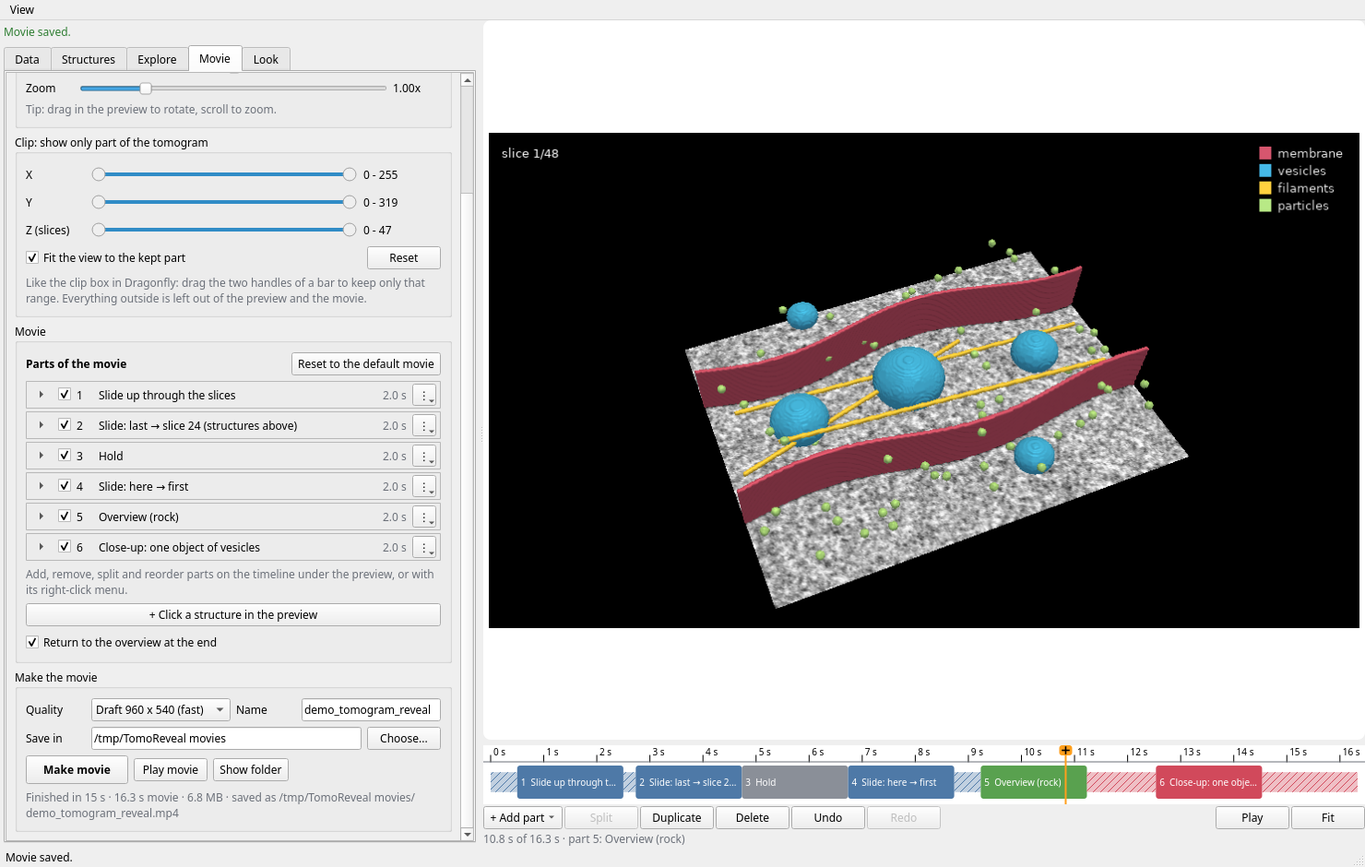
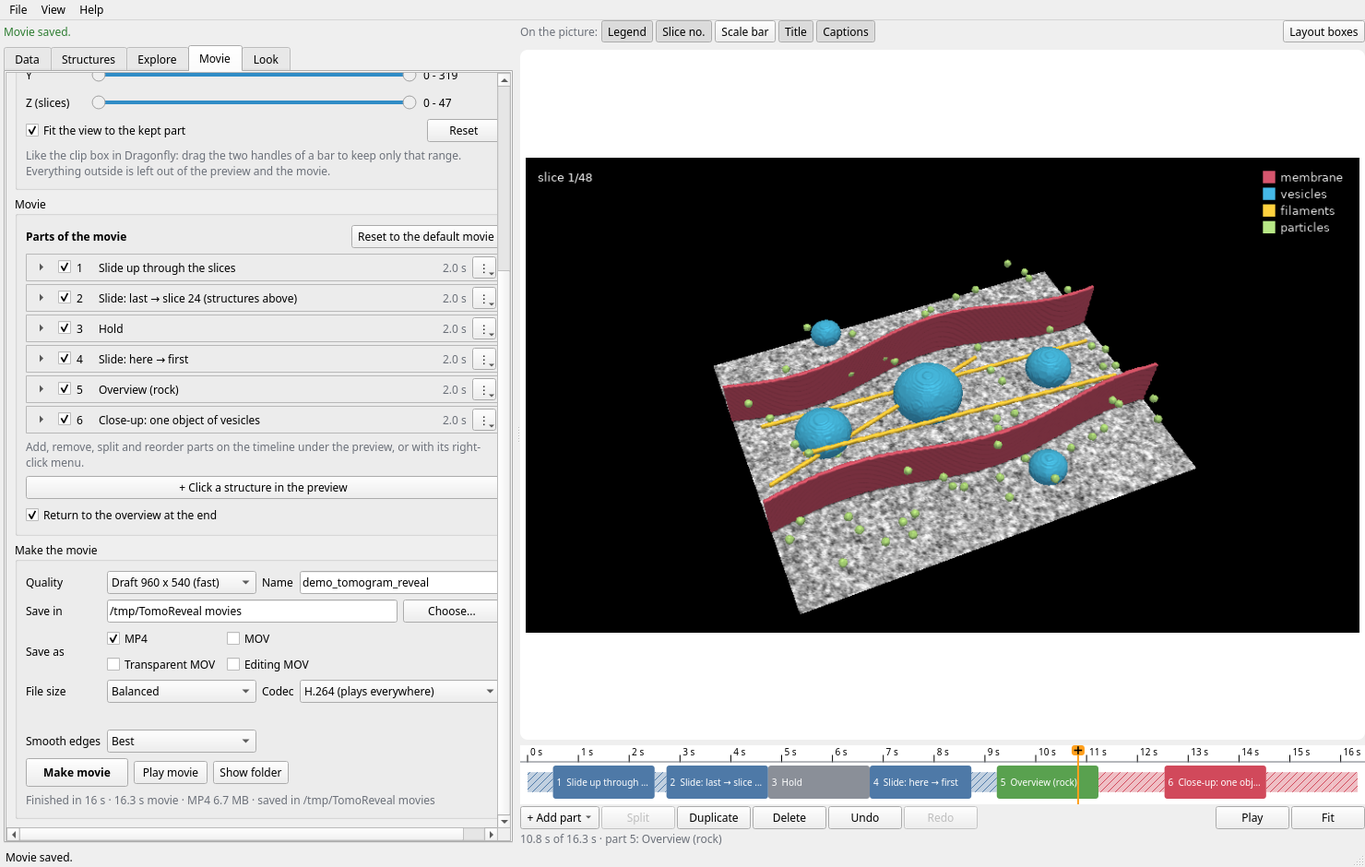
3.4 phase 11: version 3.4.0, change log, README and screenshots
- Version 3.4.0; CHANGELOG with one bullet per request R1-R17.
- README: per-structure settings, close-ups of several objects, close-up animations, camera paths,
  'On the picture' (legend, scale bar), title and end cards, lighting and shadows, Make the movie with
  formats, file size, H.265 and transparency notes and the size estimates, 'Save your work' (projects,
  autosave, crashes, continuing a movie), new command-line options, new modules.
- Screenshots regenerated from the demo data only, plus 11-16 (overlays, title card, cartoon with slice
  shadows, cross-section, camera path, size table).
- The left panel fits again: drop-down lists may shrink, format tick boxes in two rows, shorter labels,
  left side 40 px wider by default; horizontal scroll bar as a safety net.

diff --git a/tomoreveal/gui.py b/tomoreveal/gui.py
@@ -323,7 +323,7 @@ def build_gui(args):
 
         def _tab(self, name):
             """A scrollable page of the tab widget; returns its layout."""
-            scroll = QtW.QScrollArea(); scroll.setWidgetResizable(True); scroll.setHorizontalScrollBarPolicy(QtC.Qt.ScrollBarAlwaysOff)
+            scroll = QtW.QScrollArea(); scroll.setWidgetResizable(True); scroll.setHorizontalScrollBarPolicy(QtC.Qt.ScrollBarAsNeeded)
             page = QtW.QWidget(); lay = QtW.QVBoxLayout(page); scroll.setWidget(page)
             lay.setSizeConstraint(QtW.QLayout.SetMinimumSize)  # grow and scroll rather than squash rows together
             self.tabs.addTab(scroll, name); self.pages.append(page)
@@ -467,6 +467,7 @@ def build_gui(args):
             for t, wh in QUALITY:
                 self.quality_cb.addItem(t, wh)
             self.quality_cb.setCurrentIndex(1); self.quality_cb.currentIndexChanged.connect(lambda _: self.schedule())
+            self.quality_cb.setSizeAdjustPolicy(QtW.QComboBox.AdjustToMinimumContentsLengthWithIcon); self.quality_cb.setMinimumContentsLength(16)
             self.folder_le = QtW.QLineEdit(self.st.outdir); self.folder_le.setMinimumWidth(120); fb = QtW.QPushButton("Choose..."); fb.clicked.connect(self.choose_folder)
             self.name_le = QtW.QLineEdit("tomogram_reveal")
             grid.addWidget(QtW.QLabel("Quality"), 0, 0); grid.addWidget(self.quality_cb, 0, 1); grid.addWidget(QtW.QLabel("Name"), 0, 2); grid.addWidget(self.name_le, 0, 3, 1, 2)
@@ -489,7 +490,7 @@ def build_gui(args):
             self.progress = QtW.QProgressBar(); grid.addWidget(self.progress, 8, 0, 1, 5)
             self.status_lbl = QtW.QLabel(""); self.status_lbl.setStyleSheet(DIM); self.status_lbl.setWordWrap(True); grid.addWidget(self.status_lbl, 9, 0, 1, 5)
             mk.addWidget(g); mk.addStretch(1)
-            split.addWidget(left); split.addWidget(self.right); split.setStretchFactor(1, 1); split.setSizes([520, 960])
+            split.addWidget(left); split.addWidget(self.right); split.setStretchFactor(1, 1); split.setSizes([560, 920])
             self.cancel_btn.hide(); self.progress.hide(); self.open_btn.setEnabled(False)
 
         # ---------- messages and state ----------
@@ -561,6 +562,10 @@ def build_gui(args):
             """Tooltips for every control (texts in help_texts.py); called after lists are rebuilt."""
             from .help_texts import apply
             apply(self)
+            for page in self.pages:  # drop-down lists may shrink (long entries end in "..."), so rows fit the left side
+                for cb in page.findChildren(QtW.QComboBox):
+                    if cb.sizeAdjustPolicy() != QtW.QComboBox.AdjustToMinimumContentsLengthWithIcon:
+                        cb.setSizeAdjustPolicy(QtW.QComboBox.AdjustToMinimumContentsLengthWithIcon); cb.setMinimumContentsLength(6)
 
         def _help_menu(self):
             h = self.project.help_menu; h.addSeparator()
@@ -579,7 +584,7 @@ def build_gui(args):
             while p is not None and not isinstance(p, QtW.QScrollArea):
                 p = p.parentWidget()
             if p is not None:
-                p.ensureWidgetVisible(w, 0, 20)
+                p.ensureWidgetVisible(w, 0, 20); p.horizontalScrollBar().setValue(0)
 
         def _tab_changed(self, i):
             """The Explore tab shows its own slice view on the right; every other tab shows the movie preview."""

diff --git a/tomoreveal/gui_paths.py b/tomoreveal/gui_paths.py
@@ -11,7 +11,7 @@ SPEEDS = (("even", "even"), ("slow at the ends", "ease"))
 
 
 def _combo(items, cur, fn):
-    cb = QtW.QComboBox()
+    cb = QtW.QComboBox(); cb.setSizeAdjustPolicy(QtW.QComboBox.AdjustToMinimumContentsLengthWithIcon); cb.setMinimumContentsLength(8)
     for t, d in items:
         cb.addItem(t, d)
     cb.setCurrentIndex(max(0, cb.findData(cur)))
@@ -89,9 +89,11 @@ def path_rows(panel, pid, p, form):
         wps = p.get("waypoints") or []
         for i, w in enumerate(wps):
             what = "view" if w.get("pos") is not None else "point"
-            lab = QtW.QLabel(f"{i + 1}: {'camera position' if what == 'view' else 'looks at a clicked point'}")
+            lab = QtW.QLabel(f"{i + 1}: {'a view' if what == 'view' else 'a point'}")
+            lab.setToolTip("A camera position stored with 'Add point at the current view'" if what == "view" else
+                           "A point you clicked; the camera passes near it, looking at it")
             pause = _spin(0, 30, float(w.get("pause", 0) or 0), lambda v, i=i: (part()["waypoints"][i].update(pause=float(v)), panel.set(pid, "waypoints", part()["waypoints"])),
-                          step=0.5, suffix=" s", decimals=1, prefix="pause ")
+                          step=0.5, suffix=" s", decimals=1, prefix="stop ")
             pause.setToolTip("The camera stops here for this long")
 
             def move(d, i=i):
@@ -119,7 +121,7 @@ def path_rows(panel, pid, p, form):
         click = QtW.QPushButton("Add point by clicking in the preview"); click.setCheckable(True); click.setChecked(win.waypoint_pick == pid)
         click.setToolTip("Click a structure or the slice; the camera will pass near it, looking at it. Esc ends.")
         click.toggled.connect(lambda on: win.start_waypoint_pick(pid) if on else win.end_waypoint_pick())
-        form.addRow("" if wps else "Points", _row(here, click))
+        form.addRow("" if wps else "Points", _row(here)); form.addRow("", _row(click))
         tip = QtW.QLabel("In the preview, drag a numbered point to move it on the slice; right-click it to delete it.")
         tip.setStyleSheet(DIM); tip.setWordWrap(True); form.addRow("", tip)
     cam = dict(sb.PATH_CAMERA, **(p.get("camera") or {}))
@@ -137,5 +139,5 @@ def path_rows(panel, pid, p, form):
     op = QtW.QSpinBox(); op.setRange(0, 100); op.setSuffix(" %"); op.setPrefix("opacity "); op.setValue(round(100 * oo))
     op.valueChanged.connect(lambda v: panel.set(pid, "others", dict(colour=sb.others_of(part().get("others"))[0], opacity=v / 100)))
     form.addRow("Other structures", _row(col, op))
-    show = QtW.QCheckBox("show the path in the preview (never in the movie)"); show.setChecked(bool(p.get("show_path_in_preview", True)))
+    show = QtW.QCheckBox("show the path in the preview"); show.setChecked(bool(p.get("show_path_in_preview", True)))
     show.toggled.connect(lambda v: panel.set(pid, "show_path_in_preview", bool(v))); form.addRow("", show)

diff --git a/tomoreveal/gui_movie.py b/tomoreveal/gui_movie.py
@@ -314,7 +314,7 @@ class ClickableHeader(QtW.QWidget):
 
 def _combo(items, current, on_change):
     """A drop-down list of (text, value); on_change(value) when the user picks one."""
-    cb = QtW.QComboBox()
+    cb = QtW.QComboBox(); cb.setSizeAdjustPolicy(QtW.QComboBox.AdjustToMinimumContentsLengthWithIcon); cb.setMinimumContentsLength(8)
     for t, d in items:
         cb.addItem(t, d)
     i = cb.findData(current)
@@ -416,7 +416,7 @@ class PartsPanel(QtW.QWidget):
             arrow.clicked.connect(lambda _=False, pid=pid: self.toggle(pid)); head.clicked.connect(lambda pid=pid: self.toggle(pid))
             tick.toggled.connect(lambda on, pid=pid: self.set_on(pid, on))
             note = QtW.QLabel(""); note.setStyleSheet(DIM); note.setWordWrap(True); note.setContentsMargins(46, 0, 0, 0)
-            details = QtW.QWidget(); details.setVisible(False); dl = QtW.QFormLayout(details); dl.setContentsMargins(46, 2, 0, 4)
+            details = QtW.QWidget(); details.setVisible(False); dl = QtW.QFormLayout(details); dl.setContentsMargins(24, 2, 0, 4)
             v.addWidget(head); v.addWidget(note); v.addWidget(details)
             self.lay.addWidget(box)
             self.rows[pid] = dict(box=box, head=head, arrow=arrow, on=tick, num=num, name=name, dur=dur, note=note,
@@ -471,7 +471,7 @@ class PartsPanel(QtW.QWidget):
         while w is not None and not isinstance(w, QtW.QScrollArea):
             w = w.parentWidget()
         if r and w is not None:
-            w.ensureWidgetVisible(r["box"], 0, 20)
+            w.ensureWidgetVisible(r["box"], 0, 20); w.horizontalScrollBar().setValue(0)
 
     # ---- settings ----
     def set_on(self, pid, on):
@@ -713,7 +713,7 @@ class PartsPanel(QtW.QWidget):
         if v is not None and v.get("on", True):
             st = QtW.QSpinBox(); st.setRange(0, 100); st.setSuffix(" %"); st.setPrefix("strength "); st.setValue(round(100 * float(v.get("strength", 0.6))))
             st.valueChanged.connect(lambda x: self.set(pid, "vignette", dict(self.part(pid)["vignette"], strength=x / 100)))
-            bl = QtW.QCheckBox("blur the background"); bl.setChecked(bool((v.get("blur") or {}).get("on")))
+            bl = QtW.QCheckBox("blur"); bl.setChecked(bool((v.get("blur") or {}).get("on")))
             bl.setToolTip("Things nearer or further away than the objects in focus are blurred (depth of field)")
             bl.toggled.connect(lambda on: self.set(pid, "vignette", dict(self.part(pid)["vignette"],
                                                                          blur=dict((self.part(pid)["vignette"].get("blur") or {}), on=bool(on), strength=0.5))))

diff --git a/tomoreveal/help_texts.py b/tomoreveal/help_texts.py
@@ -86,10 +86,10 @@ TEXTS = {
     "text:Add point by clicking in the preview": "Click a structure or the slice; the camera will pass near it, looking at it.",
     "label:Camera": "Distance from the path, the side the camera looks from, and its height.",
     "label:Looks": "Look at the path or a little ahead, and the speed along it.",
-    "text:show the path in the preview (never in the movie)": "Draw the camera's path in the preview while this part is selected.",
+    "text:show the path in the preview": "Draw the camera's path in the preview while this part is selected. It is never in the movie.",
     "text:push in": "The camera moves slowly closer during the close-up.",
     "text:move the tomogram slice with the cut": "The slice follows the cut, so you see the density inside the object.",
-    "text:blur the background": "Blur what is nearer or further away than the objects in focus.",
+    "text:blur": "Blur what is nearer or further away than the objects in focus.",
     "text:+ Click objects in the preview": "Click objects to add them; click again to take one out; Shift-click adds the whole structure. Esc ends.",
     # Look tab
     "text:Show the tomogram slice": "Show the grey tomogram slice in the preview and the movie.",

diff --git a/tomoreveal/gui_export.py b/tomoreveal/gui_export.py
@@ -28,11 +28,11 @@ PRORES_NOTE = "The two ProRes .mov files ignore the file size and codec choices.
 class ExportControls(QtC.QObject):
     def __init__(self, win, grid, row):
         super().__init__(win); self.win = win
-        box = QtW.QWidget(); h = QtW.QHBoxLayout(box); h.setContentsMargins(0, 0, 0, 0); self.fmt = {}
-        for f in encode.FORMATS:
+        box = QtW.QWidget(); h = QtW.QGridLayout(box); h.setContentsMargins(0, 0, 0, 0); self.fmt = {}
+        for i, f in enumerate(encode.FORMATS):  # two rows of two, so the box fits the left side
             cb = QtW.QCheckBox(FORMAT_NAMES[f]); cb.setToolTip(FORMAT_TIPS[f]); cb.toggled.connect(self.formats_changed)
-            h.addWidget(cb); self.fmt[f] = cb
-        h.addStretch(1)
+            h.addWidget(cb, i // 2, i % 2); self.fmt[f] = cb
+        h.setColumnStretch(2, 1)
         grid.addWidget(QtW.QLabel("Save as"), row, 0); grid.addWidget(box, row, 1, 1, 4)
         self.size_cb = QtW.QComboBox(); self.codec_cb = QtW.QComboBox()
         for t, d in SIZES:

diff --git a/tomoreveal/gui_overlays.py b/tomoreveal/gui_overlays.py
@@ -157,7 +157,7 @@ def part_overlay_row(win, pid, p):
     w = QtW.QWidget(); h = QtW.QHBoxLayout(w); h.setContentsMargins(0, 0, 0, 0)
     cur = p.get("overlays") or {}
     for name, text in PART_ITEMS:
-        cb = QtW.QComboBox(); cb.setToolTip(f"The {text} during this part")
+        cb = QtW.QComboBox(); cb.setToolTip(f"The {text} during this part"); cb.setSizeAdjustPolicy(QtW.QComboBox.AdjustToMinimumContentsLengthWithIcon); cb.setMinimumContentsLength(8)
         for t, d in ((f"{text}: as default", "default"), (f"{text}: show", "show"), (f"{text}: hide", "hide")):
             cb.addItem(t, d)
         cb.setCurrentIndex(max(0, cb.findData(cur.get(name, "default"))))

diff --git a/tomoreveal/common.py b/tomoreveal/common.py
@@ -1,7 +1,7 @@
 """Shared constants and small helpers."""
 
 
-__version__ = "3.3.0"
+__version__ = "3.4.0"
 
 
 ZMAGIC = b"\x28\xb5\x2f\xfd"

diff --git a/README.md b/README.md
@@ -12,7 +12,7 @@ TomoReveal reads these segmentations:
 
 The application is read-only for your data. It does not edit, rename or move tomograms, sessions or segmentations. It writes only the movies, in the folder that you select. It runs on your computer and does not send data to the internet.
 
-This is version 3.3.0. The [change log](CHANGELOG.md) lists the changes in each release.
+This is version 3.4.0. The [change log](CHANGELOG.md) lists the changes in each release.
 
 ## Supported platforms
 
@@ -164,7 +164,14 @@ The **Structures** tab lists the structures with the names and colours that are 
 - remove the tick to hide it.
 - click the coloured box to change the colour.
 - change the name. The legend uses this name.
-- move the **threshold** bar (easymode and Ais structures only). The surface is drawn where the score of the network is above the threshold.
+- click the **⚙** button to open the structure's settings:
+  - **Opacity**: 100 % is solid; lower values let you see through it.
+  - **Threshold** (easymode and Ais structures only): the surface is drawn where the score of the network is above it.
+  - **Remove specks smaller than** a number of voxels: leaves out small separate bits of a noisy segmentation.
+  - **Smoothing**: how round the surface is; 0 shows the raw voxel steps.
+  - **Style**: Normal, Cartoon (flat colour with dark outlines), Dots, or Glossy (shiny, metallic or glass). **Apply to all** gives every structure this style.
+
+**All structures** in the Look tab fades every structure together, for a "ghost" look.
 
 Structures that are hidden in Dragonfly, and the background, are listed in grey with the tick removed. Tick them to show them anyway. A structure that has no name in the session is shown as "label 3 (no name in the session)".
 
@@ -202,7 +209,7 @@ The strip under the preview is the **timeline**. Each part of the movie is a col
 
 The default movie has three parts: **Slide up through the slices**, **Slide back, revealing the segmentation**, and **Overview**. You can change all of it:
 
-- **Add a part** with **+ Add part** under the timeline, or with the small **+** on the playhead. The new part goes directly after the part under the playhead. Choose from: Slide up through the slices, Slide back revealing the segmentation, Overview, View from here, **Close-up of** a structure (or of "an object I click in the preview"), and Hold (a pause).
+- **Add a part** with **+ Add part** under the timeline, or with the small **+** on the playhead. The new part goes directly after the part under the playhead. Choose from: Slide up through the slices, Slide back revealing the segmentation, Overview, View from here, **Close-up of** a structure (or of "an object I click in the preview"), Hold (a pause), **Camera path along** a structure or **through points**, and **Title card**, **End card** or **Blank card**.
 - **Remove a part** with **Delete** (or the Delete key). Any part can be removed, also the default ones. **Undo** brings it back. **Reset to the default movie** (Movie tab) starts again from the three default parts.
 - **Make a part longer or shorter**: drag the right edge of its block.
 - **Move a part**: drag its block to another place.
@@ -242,8 +249,12 @@ The **Movie** tab lists the same parts, one line each. Click a line to open its 
 |---|---|
 | Slide | From (first slice, last slice, where the slice is, a slice number), To, Structures (hidden, above the slice, all, leave as they are), Pause before, Pause after |
 | Overview | Camera movement (rock, full spin, still), Rock angle, View (main view or own view) |
-| Close-up | Structure (a list of the loaded structures with their colours), Object (whole structure, the object you picked, or "pick an object in the preview..."), Other structures (grey, hidden, unchanged), Camera movement (orbit, rock, still), Zoom, Tilt |
+| Close-up | Structure and Object (or Objects in focus), Other structures (colour and opacity), Camera movement (orbit, rock, wiggle, still), Camera push-in, Highlight, Object effect, Zoom, Tilt, Vignette |
 | Hold | only the common settings |
+| Card | Background, text and picture blocks, Fades (see [Title and end cards](#9-title-and-end-cards)) |
+| Camera path | What the camera follows, or its points; Camera, Looks, Other structures (see [Camera paths](#camera-paths)) |
+
+Every part also has **On the picture**: show or hide the legend, slice number and scale bar during this part only.
 
 ![A close-up open in the Movie tab](docs/images/04-closeup.png)
 
@@ -253,10 +264,35 @@ The **Movie** tab lists the same parts, one line each. Click a line to open its 
 - Click **+ Click a structure in the preview** (or choose "an object I click in the preview"), then click one object (one vesicle, one filament) to add a close-up of that object only.
 - To change what a close-up shows, open it and choose another **Structure** or **Object** from the lists. The caption follows the structure unless you typed your own.
 - A close-up of a structure that you switched off in the Data tab stays in the list, marked "structure not loaded", and is left out of the movie until the structure is back.
+- **Several objects together**: open the close-up, tick whole structures under **Structures in focus**, or click **+ Click objects in the preview** and click objects one by one (click again to take one out, Shift-click for the whole structure, Esc when done). The camera frames all of them; each keeps its colour. **Make a close-up for each** (in the part's ⋮ menu) turns them into one close-up each, a quick tour.
+- **Other structures**: their colour (grey, darker, unchanged) and their opacity (0 % hides them).
+- **Vignette**: darker edges around the objects in focus, as set in the Look tab or for this close-up only, with an optional **blur** of what is nearer or further away.
+
+#### Close-up animations
+
+They can be combined:
+
+- **Camera movement: wiggle**: the camera circles slightly around the object, so its 3D shape shows while it stays in place.
+- **Camera push-in**: the camera moves slowly closer (it never goes so close that the objects leave the picture).
+- **Highlight**: the objects pulse brighter, or get a glowing outline.
+- **Object effect: cross-section sweep**: a cut moves through the objects and shows their inside, for example the lumen of a vesicle. With **move the tomogram slice with the cut**, the slice follows the cut, so you see the density inside the object exactly where it is cut. The cut can also come from the viewer's side or run along the object's longest axis.
+- **Object effect: grow in**: the objects build up from the bottom or from the slice, or fade in.
+
+![A cross-section through a vesicle](docs/images/14-cross-section.png)
 
 #### View from here
 
 **+ Add part > View from here** adds a still view with its own camera position, taken from the main view. While that part is selected and the playhead is inside it, dragging and scrolling in the preview change the view of this part only (the preview says "Changing the view of part 4"); its line in the Movie tab also has Tilt, Rotate and Zoom bars. Two of these parts in a row make the camera fly from one position to the other.
+
+#### Camera paths
+
+**+ Add part > Camera path along** a structure makes the camera glide along it, for example along a membrane. TomoReveal finds the middle line of the structure (or of the object you click); **Reverse direction** starts from the other end. If the object is too small or round to follow, it says so: use points instead.
+
+**+ Add part > Camera path through points** makes the camera fly through points that you set: **Add point at the current view** stores where the camera is in the preview; **Add point by clicking in the preview** picks a spot on a structure or on the slice, which the camera passes looking at it. Each point can **stop** the camera for some seconds. In the preview, drag a numbered point to move it, or right-click it to delete it.
+
+For both: **Camera** sets the distance and the side the camera looks from, **Looks** whether it looks at the path or a little ahead and whether it moves at even speed or slows down at the ends. The path is drawn in the preview while the part is selected, never in the movie.
+
+![A camera path through three points](docs/images/15-camera-path.png)
 
 ### 7. Show, fade or hide the tomogram
 
@@ -273,13 +309,55 @@ The change happens at the start of the part, over the **fade** time (0.5 s unles
 
 ![The tomogram choice for each part](docs/images/07-tomogram.png)
 
-### 8. Make the movie
+### 8. On the picture: legend, slice number, scale bar
 
-At the end of the **Movie** tab, select the quality, the name and the folder. Click **Make movie**. The movie is exactly what the timeline shows. A bar shows the progress and the time that remains. When the movie is complete, click **Play movie** to open it in your video player, or **Show folder**.
+The Look tab group **On the picture**, and the buttons above the preview, switch the **legend**, the **slice number**, the **scale bar**, the **title** and the **captions** on or off. Each part can override this for itself (Movie tab, **On the picture**).
 
-![The movie is saved](docs/images/05-movie-saved.png)
+- **Move** an item by dragging it in the preview; drag its corner handle to make it bigger or smaller (hold Shift for steps of 0.1). It snaps to the edges and the centre lines. Right-click an item for Hide, Reset position, Bigger, Smaller, and, for the legend, one or two columns and the box. **Layout boxes** shows all items, also hidden ones, as dashed boxes.
+- The positions are kept as fractions of the picture, so they stay in place at every quality (Draft, HD, 4K, square, portrait).
+- **Scale bar**: its length comes from the voxel size of the data, shown in the Data tab. Many files say 1 Å or 0 by mistake; then the Data tab warns you, and you can type the real voxel size there. With **automatic length**, a round number (1, 2 or 5 × 10ⁿ nm) is chosen for each part. **Flat on the picture**, the bar is exact at the centre of the view (switch on Orthographic view for an exact bar everywhere); **lying on the slice**, it is exact in every view.
+
+![Moving the legend; the scale bar](docs/images/11-overlays.png)
+
+### 9. Title and end cards
+
+**+ Add part > Title card** puts a card with the tomogram's name at the start; **End card (thank you)** puts one at the end; **Blank card** puts one at the playhead. Open the card in the Movie tab to set its **background** (a colour, a gradient, a picture, or see-through), its **blocks** of text (with line breaks, size, colour, bold) and pictures (logos with their transparency), and its **fades**: fade in from black, fade out, or dissolve into the next part. Drag the blocks in the preview to place them. Cards hide the legend, slice number and scale bar unless you switch them on for the card.
+
+![A title card](docs/images/12-title-card.png)
+
+### 10. Lighting, shadows and smooth edges
+
+In the Look tab:
+
+- **Lighting**: the **Preset** Default is the lighting of earlier versions. Simple uses one light; Soft adds soft shadows in creases (ambient occlusion; it works on the whole picture); Full adds slice shadows; Flat shows colours only. Set the **direction** with the sliders or by dragging on the ball, and **Brightness**, **Fill light**, **Ambient** and **Shininess**. **Light moves with the camera** keeps the light where the viewer is; without it, the light stays in place and highlights move when the camera turns.
+- **Shadows**: **Structures cast shadows on the tomogram slice**, with **Strength** and **Softness**, lit from the direction above. **Shadows between structures** needs a graphics card and is offered only where TomoReveal's test of the graphics card passes.
+- **Smooth edges** for the preview (Off or Fast). The movie has its own choice in Make the movie (Best is the default).
+
+![Cartoon membranes and vesicles with slice shadows](docs/images/13-cartoon-shadows.png)
+
+### 11. Make the movie
+
+At the end of the **Movie** tab, select the quality, the name and the folder.
+
+- **Save as**: tick any of **MP4** (plays everywhere), **MOV** (the same video in a QuickTime file), **Transparent MOV** (see-through background, for putting the movie over a coloured slide or another video; the tomogram slice stays opaque), and **Editing MOV** (large, high quality, for video editing programs). One render makes all ticked files: `name.mp4`, `name.mov`, `name_transparent.mov`, `name_prores.mov`.
+- **File size**: Balanced, Larger (best quality) or Smaller (about a quarter smaller at nearly the same quality). The resolution never changes.
+- **Codec**: H.264 plays everywhere. **H.265** gives about half the file size at the same quality; it plays on recent Macs, iPhones and in VLC, but Windows may need the HEVC extension and some PowerPoint versions cannot play it. Check before a talk.
+- Transparent backgrounds work in Keynote, Final Cut, Premiere and DaVinci Resolve. Check your presentation program before relying on it.
+- The **estimated file sizes** for every quality and ticked format appear under these choices a few seconds after you stop changing settings. They come from a few frames of your movie; "rough" ones are scaled from HD.
+
+Click **Make movie**. The movie is exactly what the timeline shows. A bar shows the progress and the time that remains. When the movie is complete, the real sizes appear next to the estimates; click **Play movie** to open it in your video player, or **Show folder**.
+
+![The size estimates and the finished movie](docs/images/16-size-table.png)
 
 Save the movies in a folder that is not your data folder.
+
+## Save your work
+
+- **File > Save** (Ctrl+S) saves a project file (`.tomoreveal`). It records where your data files are, which tomogram and segmentations are switched on, and every setting of the movie. It does not copy the data. **File > Open project** (or dropping the project file on the window) brings everything back. The window title shows the project's name, with a * when there are unsaved changes; opening another project, starting over or quitting asks whether to save first.
+- If you move the data and the project together, the project still finds the files. If a file is missing or has changed, one dialog lists them: **Locate...**, **Skip**, or **Use it anyway**. Skipped files are left out; their structures and close-ups come back when you locate the file later.
+- **If TomoReveal crashes**: your tomograms, sessions and segmentation files are only ever read, so a crash cannot damage them. Your settings are autosaved a few seconds after each change and just before a movie starts; when you start TomoReveal again, it offers to **Restore** your work.
+- **If a movie is interrupted** (a crash, a power cut), start TomoReveal, restore or open your project, and press **Make movie** with the same name: it offers to **continue** the movie from where it stopped, as long as the settings are the same. A movie is renamed to its final name only when it is complete, so a half-written file never looks like a finished movie.
+- **Help > Show log folder** opens the folder with error logs, useful when reporting a problem.
 
 ## Dark mode
 
@@ -388,17 +466,18 @@ tomoreveal list    session.ORSSession
 tomoreveal inspect session.ORSSession
 tomoreveal movie   tomogram.mrc --session session.ORSSession --view oblique,top --focus "vesicles" -o movie.mp4
 tomoreveal movie   tomogram.mrc --features tomogram__membrane.mrc --threshold 0.5 --clip 0,400,0,600,10,50
+tomoreveal movie   tomogram.mrc --session session.ORSSession --format mp4,mov-transparent --file-size smaller --scale-bar
 tomoreveal extract session.ORSSession --masks -o segmentation_out
 tomoreveal --help
 ~~~
 
-On a Linux computer without a display, add `--headless` to the `movie` command.
+On a Linux computer without a display, add `--headless` to the `movie` command. `--format` takes `mp4`, `mov`, `mov-transparent` and `mov-prores`; `--codec h265` and `--file-size larger|balanced|smaller` set the file size (`--crf` overrides it); `--scale-bar` adds a scale bar (`auto` or a length in nm) and `--voxel-nm` sets the voxel size when the file's header is wrong. `--frames-dir` also saves every frame as a PNG picture.
 
 `tomoreveal extract` writes the selected Dragonfly segmentation as `labels.mrc` with the names and colours in `classes.json`.
 
 `tomoreveal inspect` prints what TomoReveal reads from a session; see [The structure names are not the ones in Dragonfly](#the-structure-names-are-not-the-ones-in-dragonfly).
 
-`tomoreveal app` shows the controls in a web browser tab on this computer in place of the window. This older interface does not have the clip bars, the Explore tab, the tomogram controls or dark mode.
+`tomoreveal app` shows the controls in a web browser tab on this computer in place of the window. This older interface does not have the clip bars, the Explore tab, the tomogram controls, dark mode, or the features added in 3.4 (projects, overlays, cards, lighting, close-up animations, camera paths, file formats).
 
 ## Scope and data safety
 
@@ -426,6 +505,13 @@ The source code is in the `tomoreveal` folder:
 | `gui_theme.py` | Light and dark themes |
 | `gui_timeline.py` | The timeline under the preview |
 | `gui_movie.py` | Editing the movie (add, delete, split, undo) and the parts list of the Movie tab |
+| `project.py`, `gui_project.py` | Project files, finding moved data, autosave, crash log; the File menu |
+| `encode.py`, `estimate.py`, `gui_export.py` | Writing movies through FFmpeg in chunks (several formats at once), file size estimates |
+| `overlays.py`, `gui_overlays.py` | Legend, slice number, scale bar, title and caption; dragging them in the preview |
+| `cards.py`, `gui_cards.py` | Title and end cards |
+| `look.py`, `gui_look.py` | Lighting, shadows, anti-aliasing, vignette, surface styles |
+| `paths.py`, `gui_paths.py` | Camera paths along structures and through points |
+| `names.py`, `help_texts.py` | Short file names; every tooltip |
 | `cli.py`, `webapp.py`, `demo.py` | Commands, browser interface, demo data |
 
 To run the tests:

diff --git a/CHANGELOG.md b/CHANGELOG.md
@@ -1,5 +1,25 @@
 # Change log
 
+## 3.4.0
+
+- **Projects and crash safety (R3).** File > Save / Save as / Open / Open recent / Revert. A project (`.tomoreveal`) stores where the data files are and every setting, not the data. Moved data folders are found again; missing or changed files are listed in one dialog (Locate, Skip, Use it anyway). Your work is autosaved a few seconds after each change; after a crash TomoReveal offers to restore it. Movies are written in pieces, so a movie interrupted by a crash can be continued instead of started again. Errors are written to a log (Help > Show log folder).
+- **Legend and slice number on or off (R1)**, also for one part only, and the title and captions too.
+- **Move and resize the legend and the other items (R2)** by dragging them in the preview, with snapping to the edges and the centre, and a corner handle for their size. Legend title, one or two columns, box on or off.
+- **Scale bar (R8)** from the voxel size of the data (or a value you type when the file header is wrong): flat on the picture, or lying on the slice, where it is exact in every view. Its length is a round number chosen for each part.
+- **Title and end cards (R9)** with text, logos and pictures, a colour, gradient or picture background, fades, and a dissolve into the movie.
+- **Opacity, threshold, speck removal and smoothing (R6)** for each structure, in the structure's settings (the button next to it), and an opacity for all structures together.
+- **Lighting, shadows, smooth edges (R13).** Lighting presets (Simple, Soft, Full, Flat), the light's direction (drag a lit ball) and amounts; structures cast soft shadows on the tomogram slice, with a strength slider; anti-aliasing modes for the preview and the movie. Shadows between structures need a graphics card and are offered only where a self-test passes.
+- **Surface styles (R16):** cartoon with outlines, dots, glossy (shiny, metallic, glass). Soft shadows in creases (ambient occlusion) are the Soft lighting preset.
+- **Several objects in one close-up (R17):** tick structures or click objects in the preview; "Make a close-up for each" turns them into a quick tour.
+- **The other structures during a close-up (R5):** their colour (grey, darker, unchanged) and their opacity; a vignette around the objects in focus, and an optional background blur.
+- **Close-up animations (R7):** wiggle, slow push-in, pulsing highlight or glowing outline, a cross-section that sweeps through the objects (with the tomogram slice moving along), and a grow-in reveal.
+- **Camera paths (R10):** the camera glides along a structure such as a membrane, or flies through points you set (with pauses). The path is shown in the preview only.
+- **MP4 and MOV, transparent MOV, editing MOV (R11)** from one render. The transparent MOV (ProRes 4444) keeps the background see-through for slides and video editing.
+- **Smaller files at full resolution (R4):** file size Balanced / Larger / Smaller, and H.265 as an option (about half the size; plays in fewer programs). H.264 stays the default.
+- **File size before you make the movie (R12):** estimated from a few frames of your movie, for every quality and format.
+- **Tooltips everywhere (R14):** every control explains itself; Help > What is this?, and Help > Show tips on hover to switch them off.
+- **Short file names (R15)** in the Data tab: only the part that differs is shown, the shared part once above; right-click to rename a file inside TomoReveal.
+
 ## 3.3.0
 
 - **Timeline (T1).** The slider under the preview is now a timeline, as in a video editor. Each part of the movie is a block with its duration; transitions and pauses are shown between them. Add parts where the playhead is (slide up, reveal, overview, close-up, hold) with **+ Add part** or the **+** on the playhead; change durations by dragging the edge of a block; reorder by dragging blocks; split a slide or a hold at the playhead. Parts can come in any order: the camera and the slice fly automatically from one part to the next.
